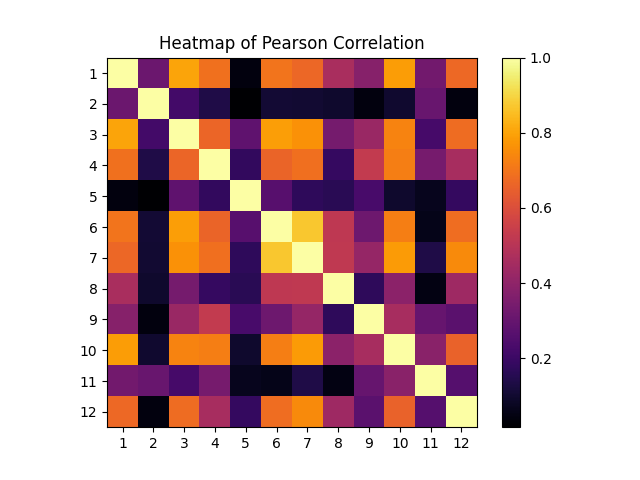
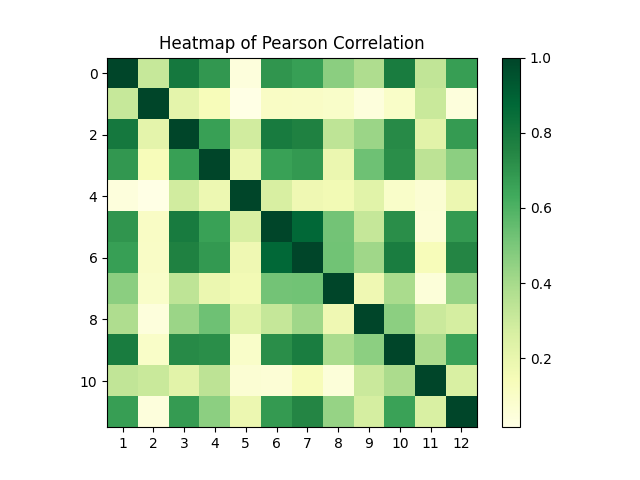
heatmaps updated

diff --git a/Dataset/Analysis/heatsmaps.py b/Dataset/Analysis/heatsmaps.py
@@ -27,35 +27,28 @@ def plot_heatmap(data, label, color, filename):
     heatmap = numpy.zeros((n_features, n_features))
 
     for i in range(n_features):
-        for j in range(i + 1):
-            coef = abs(pearsonr(data[i, :], data[j, :])[0])
-            heatmap[i][j] = coef
-            heatmap[j][i] = coef
-
-    fig, ax = plt.subplots()
-    im = ax.imshow(heatmap, cmap=color)
-
-    ax.set_xticks(numpy.arange(n_features))
-    ax.set_yticks(numpy.arange(n_features))
-    ax.set_xticklabels(numpy.arange(1, n_features + 1))
-    ax.set_yticklabels(numpy.arange(1, n_features + 1))
-
-    ax.set_title("Heatmap of Pearson Correlation")
-    fig.colorbar(im)
-
+        for j in range(n_features):
+            if j<=i:
+                heatmap[i][j] = abs(pearsonr(data[i, :], data[j, :])[0])
+                heatmap[j][i] = heatmap[i][j]
+    
+    plt.figure()
+    plt.xticks(numpy.arange(n_features), numpy.arange(1, n_features + 1))
+    
+    plt.title("Heatmap of Pearson Correlation")
+    plt.imshow(heatmap, cmap=color)
+    plt.colorbar()
+    
     plt.savefig(filename)
-    plt.close(fig)
+    plt.close()
 
 
-def plot_heatmaps_dataset(D):
-    color = "inferno"
-    filename = "Dataset/Analysis/Heatmaps/correlation_all.png"
-    plot_heatmap(D, range(D.shape[1]), color, filename)
-
-
+#Plot heatmap for all the data
 plot_heatmap(training_data, range(
-    training_data.shape[1]), "inferno", "Dataset/Analysis/Heatmaps/correlation_train.png")
-# plot_heatmaps_dataset(training_data)
+    training_data.shape[1]), "YlGn", "Dataset/Analysis/Heatmaps/correlation_train.png")
 
-plot_heatmap(training_data, range(
-    training_data.shape[1]), "inferno", "Dataset/Analysis/Heatmaps/correlation_train.png")
+#Plot the heatmap only for male
+plot_heatmap(training_data, training_label==0, "PuBu", "Dataset/Analysis/Heatmaps/male_correlation_train.png")
+
+#Plot the heatmap only for female
+plot_heatmap(training_data, training_label==1, "YlOrRd", "Dataset/Analysis/Heatmaps/female_correlation_train.png")

diff --git a/Dataset/Analysis/analysis.py b/Dataset/Analysis/analysis.py
@@ -195,6 +195,35 @@ def plot_features_histograms(DTR, LTR, _title):
         plt.legend()
         plt.savefig('./images/hist_' + title + '.svg')
         plt.show()
+        
+        
+def plot_heatmap(data, label, title, color, filename):
+
+    #print(f"data prima di essere tagliato: {data.shape}")
+
+    data = data[:, label]
+
+    #print(f"data dopo essere tagliato: {data.shape}")
+
+    n_features = data.shape[0]
+
+    heatmap = numpy.zeros((n_features, n_features))
+
+    for i in range(n_features):
+        for j in range(n_features):
+            if j<=i:
+                heatmap[i][j] = abs(pearsonr(data[i, :], data[j, :])[0])
+                heatmap[j][i] = heatmap[i][j]
+    
+    plt.figure()
+    plt.xticks(numpy.arange(n_features), numpy.arange(1, n_features + 1))
+    
+    plt.title("Heatmap of Pearson Correlation" + title)
+    plt.imshow(heatmap, cmap=color)
+    plt.colorbar()
+    
+    plt.savefig(filename)
+    plt.close()
 
 
 #  -------------- ANALYSIS EXE -------------- #
@@ -203,3 +232,13 @@ def plot_features_histograms(DTR, LTR, _title):
 # plot_scatter_matrix(training_data, training_label)
 # plot_LDA_hist(training_data, training_label, 1)
 # plot_heatmaps_dataset(training_data)
+
+#Plot heatmap for all the data
+plot_heatmap(training_data, range(
+    training_data.shape[1]), "", "YlGn", "Dataset/Analysis/Heatmaps/correlation_train.png")
+
+#Plot the heatmap only for male
+plot_heatmap(training_data, training_label==0, " - Male", "PuBu", "Dataset/Analysis/Heatmaps/male_correlation_train.png")
+
+#Plot the heatmap only for female
+plot_heatmap(training_data, training_label==1, " - Female", "YlOrRd", "Dataset/Analysis/Heatmaps/female_correlation_train.png")
